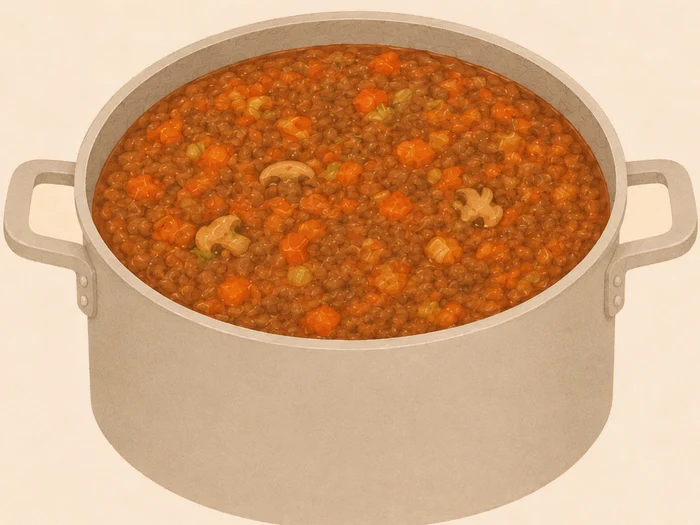
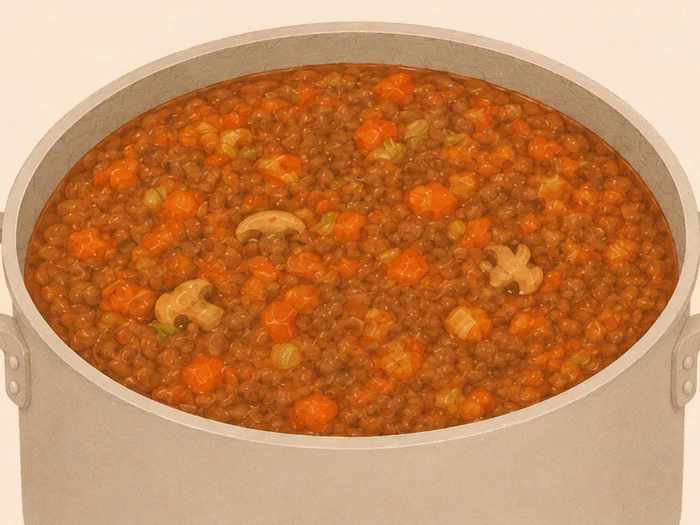
番茄肉醬的鋁鍋切緊：把手出血、鍋身下半切掉
原本照鍋物標準（鍋寬 99%、鍋子完整）切，但鋁鍋是直筒的、比뚝배기高很多，
照那個標準切下面會留一大塊沒東西的灰鍋壁，兩支把手也整根突出來
（使用者：「有點醜，兩支手把不用全露出來沒關係，鍋子下變多切一點」）。

改成鍋寬 125% —— 把手只剩根部、鍋身下半切掉約 1/3，醬料變成主角。

📌 這是唯一一個鍋子出血的。理由是器皿的形狀：뚝배기是矮胖的，整鍋入畫剛好；
直筒高鍋整鍋入畫就會有大片空白鍋壁。器皿高度／寬度比 > 0.8 的深鍋照這條處理。

ASSETS 67 → 68

diff --git a/index.html b/index.html
@@ -774,7 +774,7 @@ ol.steps li::before {
 </div>
 
 <!-- 改完 recipes.js 就把 v 往上加一號，不然瀏覽器會一直吃舊的快取 -->
-<script src="strings.js?v=17"></script>
+<script src="strings.js?v=19"></script>
 <script src="recipes.js?v=94"></script>
 <script>
 /* ══════════════════════════════════════════════
@@ -783,7 +783,7 @@ ol.steps li::before {
    ══════════════════════════════════════════════ */
 
 /* 素材版本。換過圖就 bump 一次，否則瀏覽器會一直用舊的快取 */
-const ASSETS = '67';
+const ASSETS = '68';
 const asset = p => p + '?v=' + ASSETS;
 
 const $ = (s, el = document) => el.querySelector(s);
